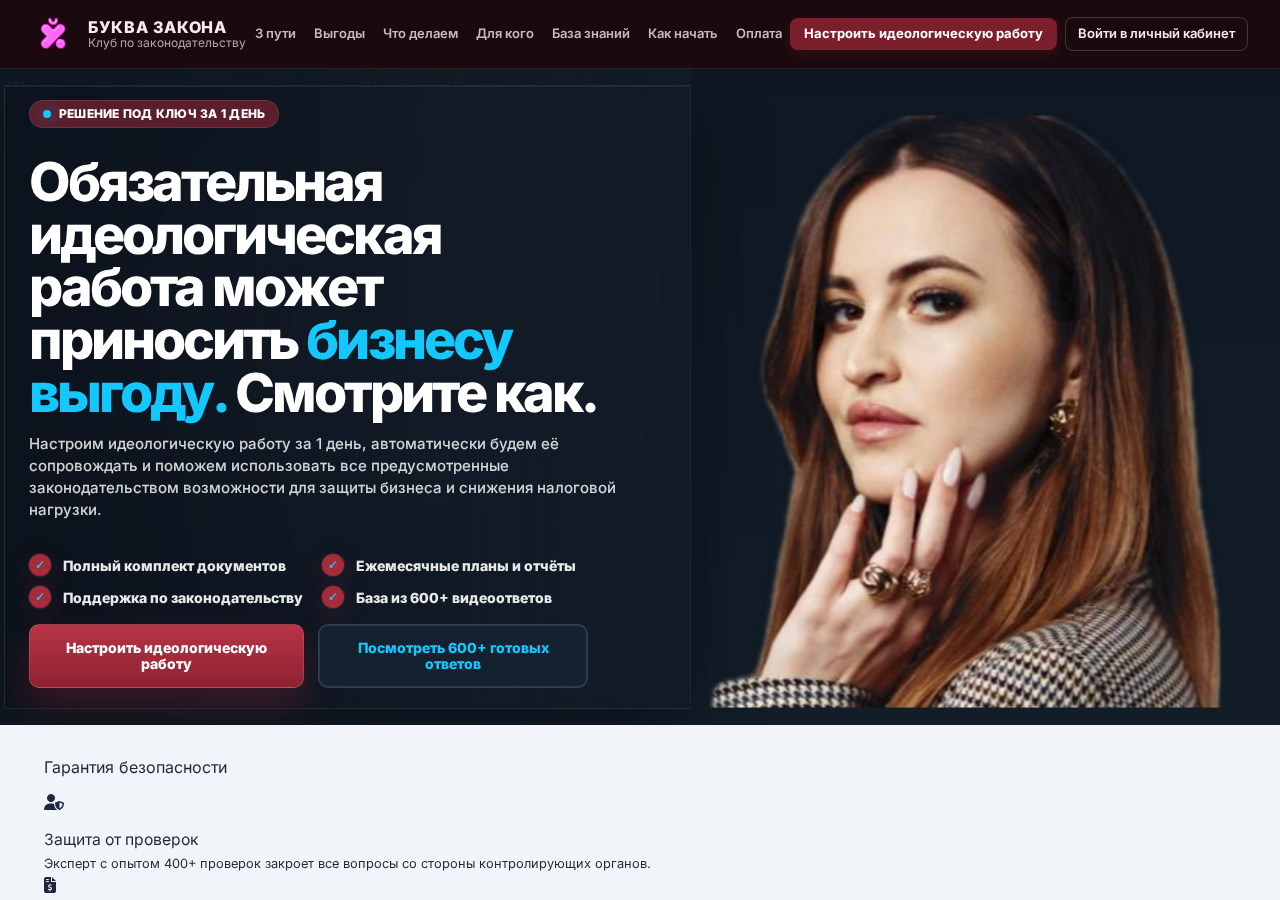
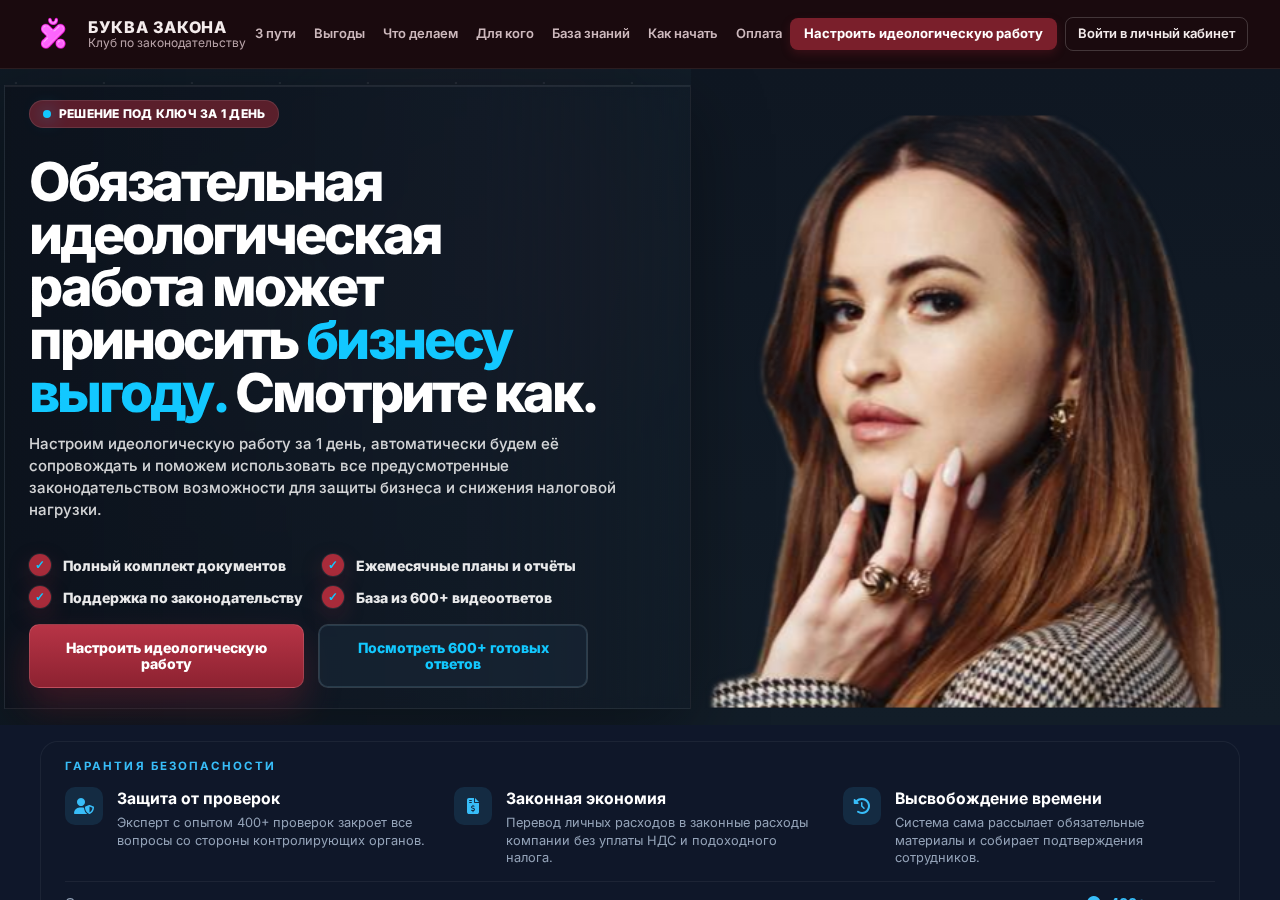
Changes

Changed region(s): [[0.0, 0.7778, 1.0, 1.0]]

diff --git a/.lovable/artifacts/site018-hero-compact-after.html b/.lovable/artifacts/site018-hero-compact-after.html
@@ -514,11 +514,11 @@
     </style>
 
     <style id="hero-fullbleed-override">
-    /* === Compact hero v3 (2026-06-23): show shoulder/hand, fit guarantees on first screen === */
+    /* === Compact hero v3 (2026-06-23): tighter, photo zoomed-out (shoulder/hand), guarantees fit on first screen === */
     .ir-hero-v2 .ir-hero-v2__wrap { align-items: stretch !important; }
     .ir-hero-v2, .ir-hero-v2__wrap, .ir-hero-v2 .ir-hero-v2__visual { min-height: 560px !important; }
 
-    /* Visual column: full-bleed container, photo aligned right-bottom and contained (no upscale blur) */
+    /* Visual column */
     .ir-hero-v2 .ir-hero-v2__visual {
         position: relative !important;
         height: 100% !important;
@@ -555,7 +555,7 @@
         z-index: 1;
     }
 
-    /* Tighten text column to make room for guarantees on the first screen */
+    /* Tighten text column */
     .ir-hero-v2 .ir-hero-v2__title { font-size: clamp(34px, 4.2vw, 56px) !important; margin: 18px 0 14px !important; line-height: .98 !important; }
     .ir-hero-v2 .ir-hero-v2__content { padding: 14px 30px 20px 24px !important; }
     .ir-hero-v2 .ir-hero-v2__text { margin: 0 0 14px !important; font-size: 15px !important; line-height: 1.45 !important; }
@@ -563,29 +563,61 @@
     .ir-hero-v2 .ir-hero-v2__actions { margin-top: 12px !important; }
     .ir-hero-v2 .ir-hero-v2__badge { margin-bottom: 10px !important; }
 
-    /* Compact guarantees strip below hero */
-    .ir-guarantees-strip { padding: 0.85rem 1.25rem 1.1rem !important; }
-    .ir-guarantees-strip__wrap { padding: 1rem 1.5rem !important; border-radius: 18px !important; }
-    .ir-guarantees-strip__label { margin-bottom: 0.7rem !important; }
-    .ir-guarantees-strip__grid { gap: 1.1rem !important; }
-    .ir-guarantees-strip__body h3 { font-size: 0.98rem !important; margin-bottom: 0.2rem !important; }
-    .ir-guarantees-strip__body p { font-size: 0.8rem !important; line-height: 1.4 !important; }
-    .ir-guarantees-strip__stats { margin-top: 0.85rem !important; padding-top: 0.7rem !important; }
-    .ir-guarantees-strip__icon { width: 38px !important; height: 38px !important; font-size: 1rem !important; }
+    /* Guarantees strip — BASE styles (must stay here, this <style> is SOT for the strip) */
+    .ir-guarantees-strip {
+        background: #0f172a;
+        padding: 1rem 1.25rem 1.25rem;
+    }
+    .ir-guarantees-strip__wrap {
+        max-width: 1200px;
+        margin: 0 auto;
+        background: rgba(15,23,42,0.6);
+        border: 1px solid rgba(255,255,255,0.06);
+        border-radius: 18px;
+        padding: 1rem 1.5rem;
+    }
+    .ir-guarantees-strip__label {
+        color: #38BDF8;
+        font-size: 0.72rem;
+        font-weight: 700;
+        letter-spacing: 0.18em;
+        text-transform: uppercase;
+        margin-bottom: 0.7rem;
+    }
+    .ir-guarantees-strip__grid {
+        display: grid;
+        grid-template-columns: repeat(3, 1fr);
+        gap: 1.1rem;
+    }
+    .ir-guarantees-strip__item { display: flex; align-items: flex-start; gap: 0.85rem; }
+    .ir-guarantees-strip__icon {
+        flex-shrink: 0;
+        width: 38px; height: 38px;
+        display: flex; align-items: center; justify-content: center;
+        background: rgba(56,189,248,0.12);
+        color: #38BDF8;
+        border-radius: 10px;
+        font-size: 1rem;
+    }
+    .ir-guarantees-strip__body h3 { color: #fff; font-weight: 700; font-size: 0.98rem; margin: 0 0 0.2rem; }
+    .ir-guarantees-strip__body p { color: #94A3B8; font-size: 0.8rem; line-height: 1.4; margin: 0; }
+    .ir-guarantees-strip__stats {
+        display: flex; justify-content: space-between; align-items: center;
+        margin-top: 0.85rem; padding-top: 0.7rem;
+        border-top: 1px solid rgba(255,255,255,0.06);
+        font-size: 0.85rem; color: #94A3B8;
+    }
+    .ir-guarantees-strip__stats b { color: #38BDF8; font-weight: 700; }
+    .ir-guarantees-strip__stats b i { margin-right: 0.4rem; }
 
     @media (max-width: 1024px) {
         .ir-hero-v2, .ir-hero-v2__wrap, .ir-hero-v2 .ir-hero-v2__visual { min-height: auto !important; }
         .ir-hero-v2 .ir-hero-v2__visual { min-height: 380px !important; }
         .ir-hero-v2 .ir-hero-v2__visual .ir-hero-v2__person {
-            position: absolute !important;
-            inset: 0 !important;
-            width: 100% !important;
-            height: 100% !important;
-            object-fit: cover !important;
-            object-position: center 20% !important;
+            object-position: center 18% !important;
         }
-        .ir-guarantees-strip__grid { grid-template-columns: 1fr !important; gap: 1rem !important; }
-        .ir-guarantees-strip__wrap { padding: 1rem 1.1rem !important; border-radius: 16px !important; }
+        .ir-guarantees-strip__grid { grid-template-columns: 1fr; gap: 1rem; }
+        .ir-guarantees-strip__wrap { padding: 1rem 1.1rem; border-radius: 16px; }
         .ir-guarantees-strip__stats { flex-direction: column; gap: 0.5rem; align-items: flex-start; }
     }
     </style>
